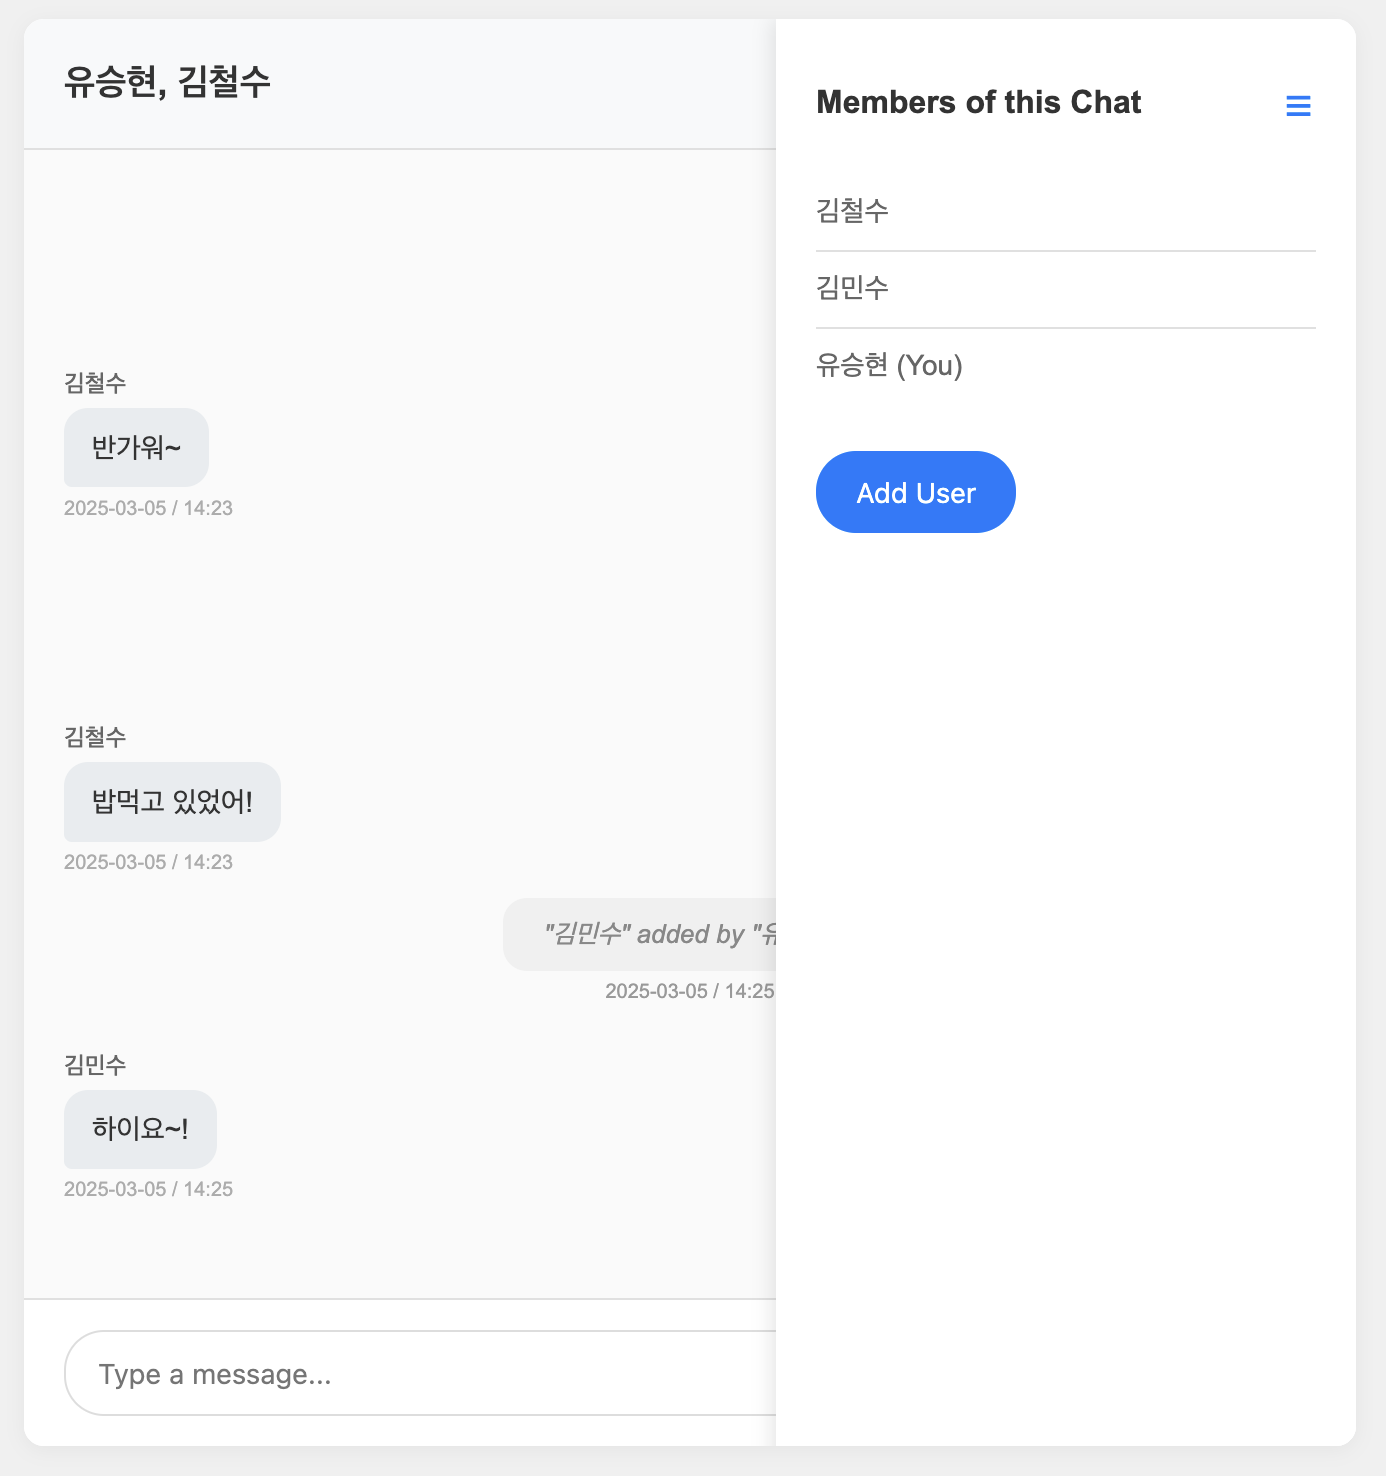
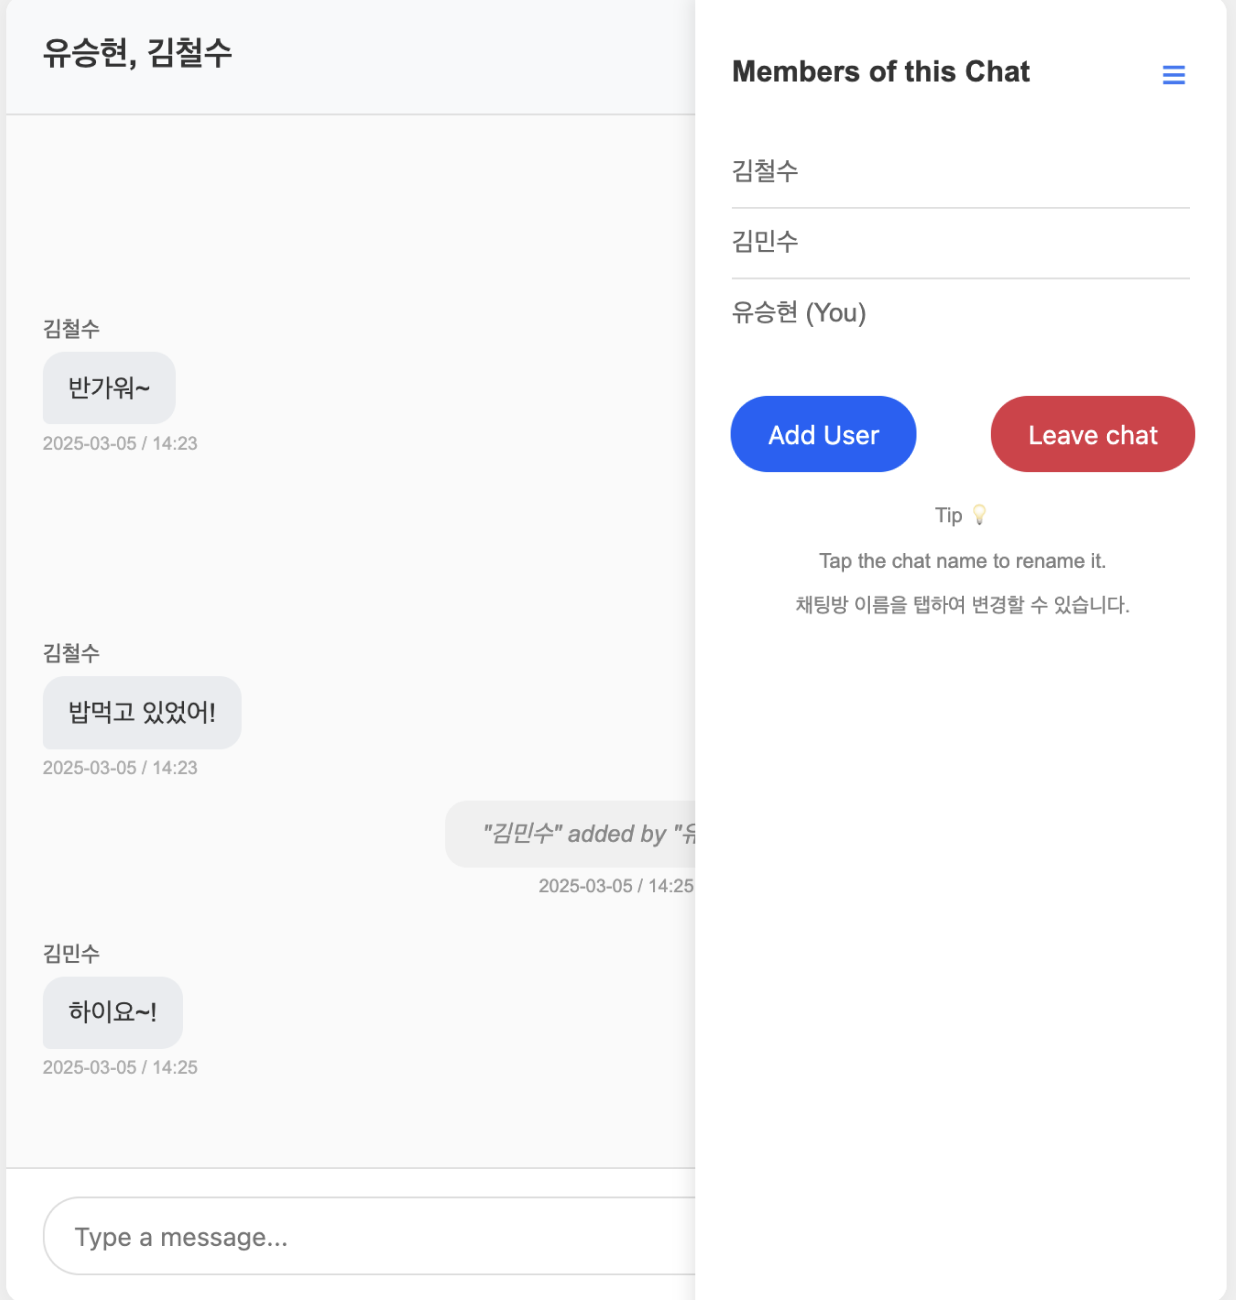
update

diff --git a/posts/projects/post-2.html b/posts/projects/post-2.html
@@ -100,7 +100,7 @@
         <p><span class="image main"><img src="../../images/Lets_Chat_2.png" alt="" style="width: 500px"/></span>로그인 후 처음 나오는 화면이다 여기서 채팅목록을 확인할 수 있고 Search User를 통해 유저를 검색해 새로운 채팅방을 만들 수 있다.</p><br/>
         <p><span class="image main"><img src="../../images/Lets_Chat_3.png" alt="" style="width: 500px"/></span>Search User를 클릭했을 때 나오는 화면이다. 여기서 유저를 검색할 수 있고 그리고 Start new chat버튼을 이용해 그 유저와 채팅방을 만들 수 있다 </p><br/>
         <p><span class="image main"><img src="../../images/Lets_Chat_4.png" alt="" style="width: 500px"/></span>채팅방의 UI이다. UI를 만드는 과정이 정말 어려웠다. 메시지와 시간, 이름 표시뿐만 아니라, 데이터베이스 부하를 줄이기 위해 JPA의 페이지네이션 기술을 활용하여 스크롤 업 시 채팅 히스토리를 불러오도록 했다. 또한, 애니메이션 처리 등 세세한 부분까지 고려해야 할 것이 많았다.</p><br/>
-        <p><span class="image main"><img src="../../images/Lets_Chat_5.png" alt="" style="width: 500px"/></span>오른쪽 위 메뉴를 누르면 해당 채팅방에 있는 유저 목록을 확인할 수 있다. 또한, 그룹 채팅을 위해 “Add User” 기능을 추가하여 새로운 사용자를 초대할 수 있도록 했다.</p><br/>
+        <p><span class="image main"><img src="../../images/Lets_Chat_5.png" alt="" style="width: 500px"/></span>오른쪽 위 메뉴를 누르면 해당 채팅방에 있는 유저 목록을 확인할 수 있다. 또한, 그룹 채팅을 위해 “Add User” 기능을 추가하여 새로운 사용자를 초대할 수 있도록 했다. "Leave chat" 클릭시 채팅방을 나갈 수 있다.</p><br/>
         <p><span class="image main"><img src="../../images/Lets_Chat_6.png" alt="" style="width: 500px"/></span>“Add user”버튼을 클릭하면 나오는 화면이다. 유저를 검색할 수 있고 추가할 수 있다.</p><br/>
         <p><span class="image main"><img src="../../images/Lets_Chat_7.png" alt="" style="width: 500px"/></span>“Add” 버튼을 누르게되면 유저가 해당 채팅방에 추가되고 “Added” 라고 초록색으로 바뀐다. </p><br/>
         <p><span class="image main"><img src="../../images/Lets_Chat_8.png" alt="" style="width: 500px"/></span>물론 이미 해당 채팅방에 유저가 있다면 해당 유저는 “In chat” 으로 표시되고 더이상 추가되지 않는다.</p><br/>
